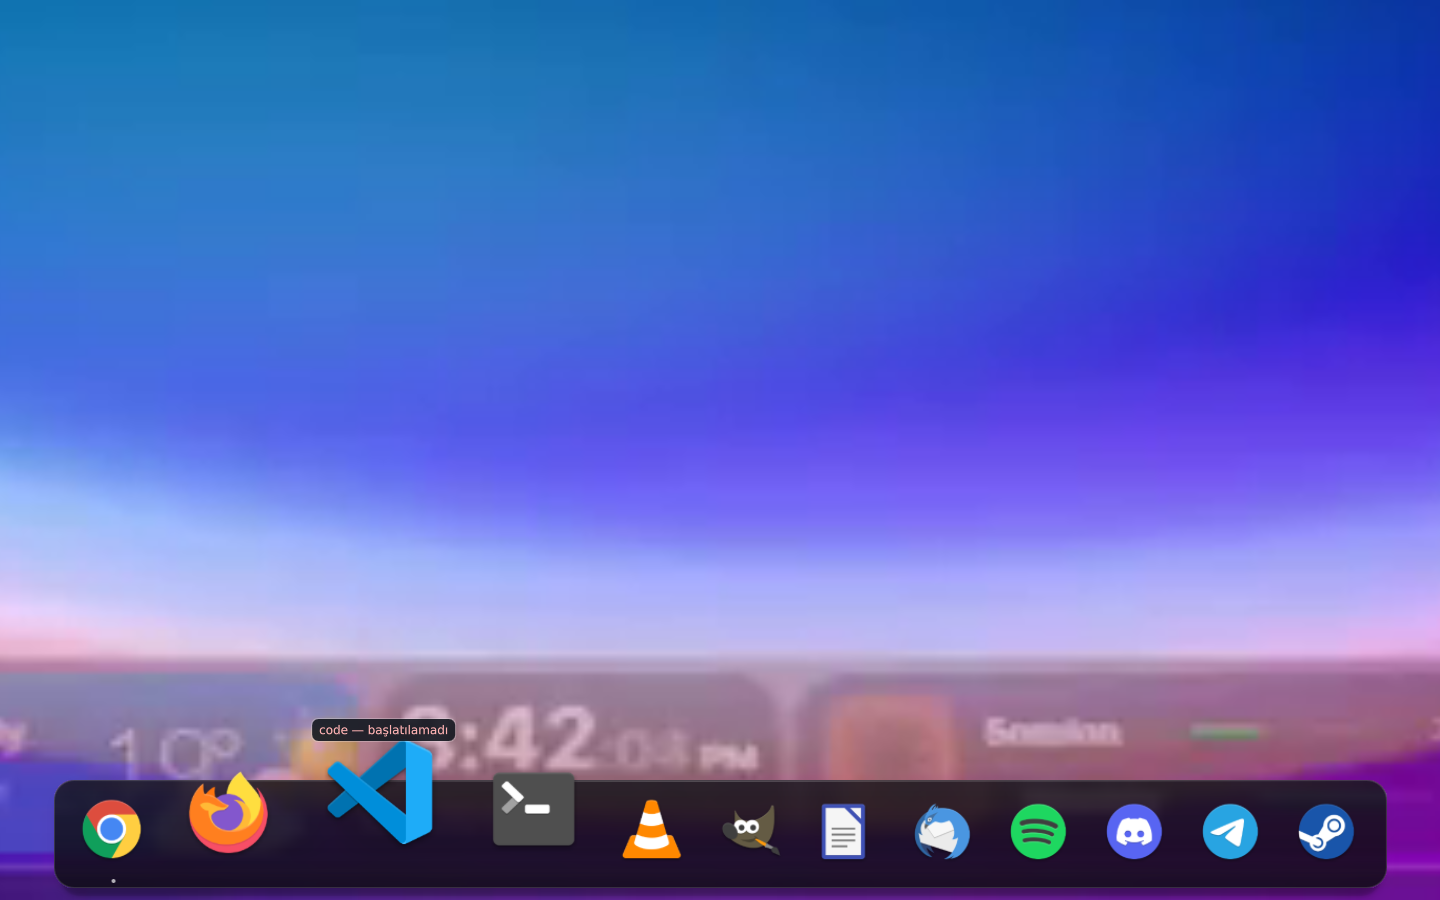
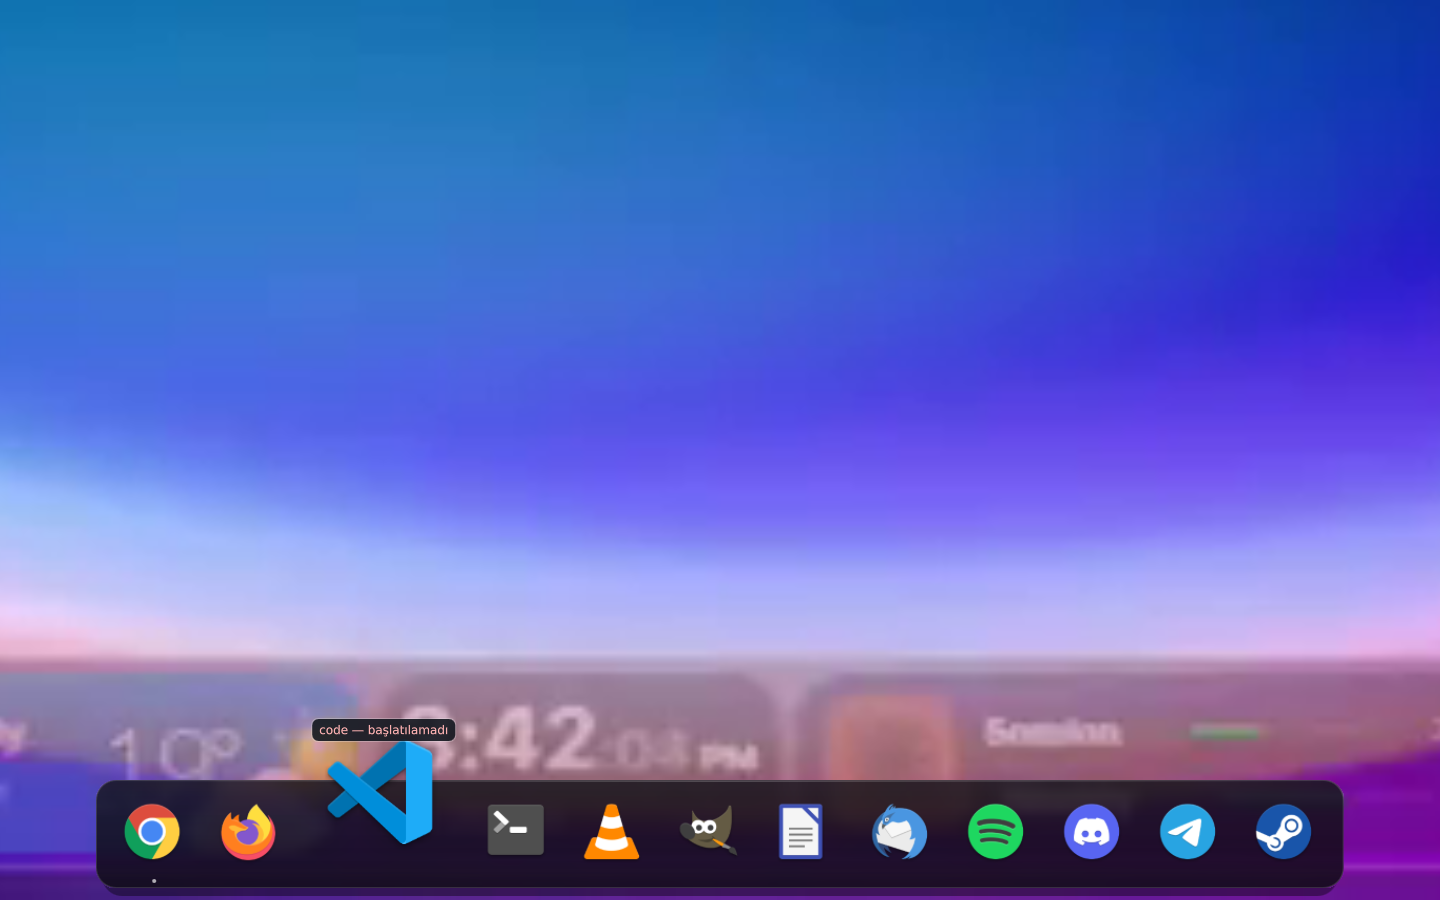
Dock: tek ikon buyutme ve hafifletilmis efektler
- Gaussian komsu buyutme kaldirildi; yalnizca imlece en yakin ikon 1.9x buyuyor, digerleri itiliyor.
- Panel ortada kalip icerikle birlikte genisliyor.
- QML panel golgesinde blurEnabled false; arka plan yenileme 1000 -> 3000 ms.
- kanit 01-02 basta olmak uzere 01-06 ve olcum yenilendi.

Changed region(s): [[0.3125, 0.84, 0.9688, 0.9956], [0.0312, 0.84, 0.1875, 0.9956]]

diff --git a/qml/Dock.qml b/qml/Dock.qml
@@ -28,18 +28,22 @@ Item {
         return toplam + Math.max(0, ikonSayisi - 1) * bosluk
     }
     readonly property real panelGenislik: icerikGenislik + 2 * yanBosluk
-    readonly property real sigma: 0.85
 
     property real fareX: -1
     property int ipucu: -1
 
-    function hedefOlcek(i) {
+    // Imlece en yakin ikon; yalnizca o buyur (komsu gaussian yok).
+    readonly property int yakinIkon: {
         if (fareX < 0 || ikonSayisi === 0)
-            return 1.0
+            return -1
         var sol = (width - tabanGenislik) / 2
-        var merkez = sol + i * (ikonBoyut + bosluk) + ikonBoyut / 2
-        var d = (fareX - merkez) / (ikonBoyut + bosluk)
-        return 1.0 + (buyutmeCarpan - 1.0) * Math.exp(-(d * d) / (2 * sigma * sigma))
+        var indeks = Math.round(
+            (fareX - sol - ikonBoyut / 2) / (ikonBoyut + bosluk))
+        return Math.max(0, Math.min(ikonSayisi - 1, indeks))
+    }
+
+    function hedefOlcek(i) {
+        return i === yakinIkon ? buyutmeCarpan : 1.0
     }
 
     HoverHandler {
@@ -72,9 +76,7 @@ Item {
         color: "#66000000"
         layer.enabled: true
         layer.effect: MultiEffect {
-            blurEnabled: true
-            blur: 1.0
-            blurMax: 18
+            blurEnabled: false
         }
     }
 

diff --git a/dock/ana.py b/dock/ana.py
@@ -167,7 +167,7 @@ class Dock(QWidget):
 
     def _zamanlayicilari_kur(self) -> None:
         self._arkaplan_zaman = QTimer(self)
-        self._arkaplan_zaman.setInterval(1000)
+        self._arkaplan_zaman.setInterval(3000)
         self._arkaplan_zaman.timeout.connect(self._arkaplan_yenile)
         self._arkaplan_zaman.start()
 
